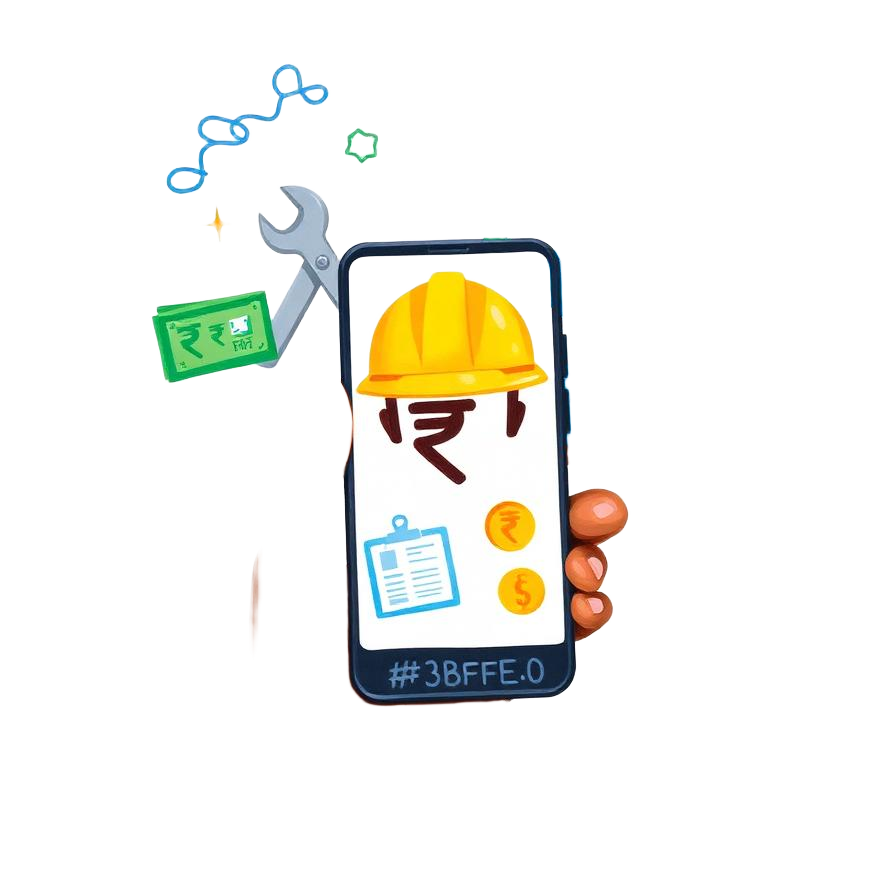
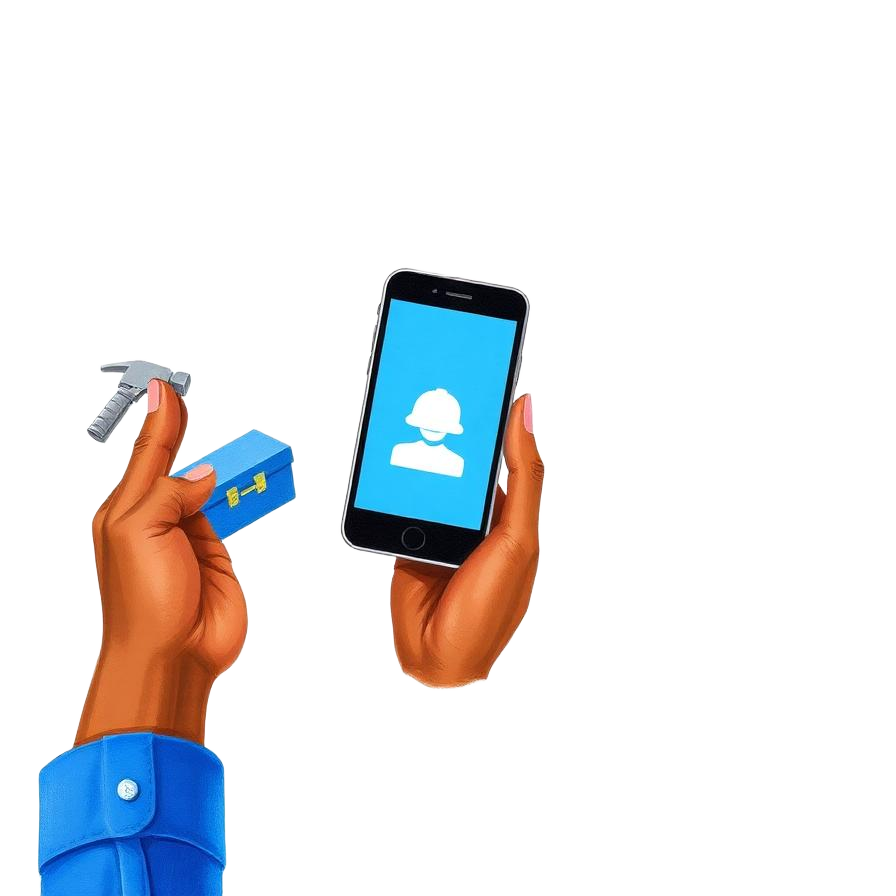
Changes

Changed region(s): [[0.0312, 0.1875, 0.7188, 1.0], [0.1875, 0.0625, 0.375, 0.2812], [0.375, 0.125, 0.4375, 0.1875]]

diff --git a/src/routeTree.gen.ts b/src/routeTree.gen.ts
@@ -313,13 +313,3 @@ const rootRouteChildren: RootRouteChildren = {
 export const routeTree = rootRouteImport
   ._addFileChildren(rootRouteChildren)
   ._addFileTypes<FileRouteTypes>()
-
-import type { getRouter } from './router.tsx'
-import type { startInstance } from './start.ts'
-declare module '@tanstack/react-start' {
-  interface Register {
-    ssr: true
-    router: Awaited<ReturnType<typeof getRouter>>
-    config: Awaited<ReturnType<typeof startInstance.getOptions>>
-  }
-}